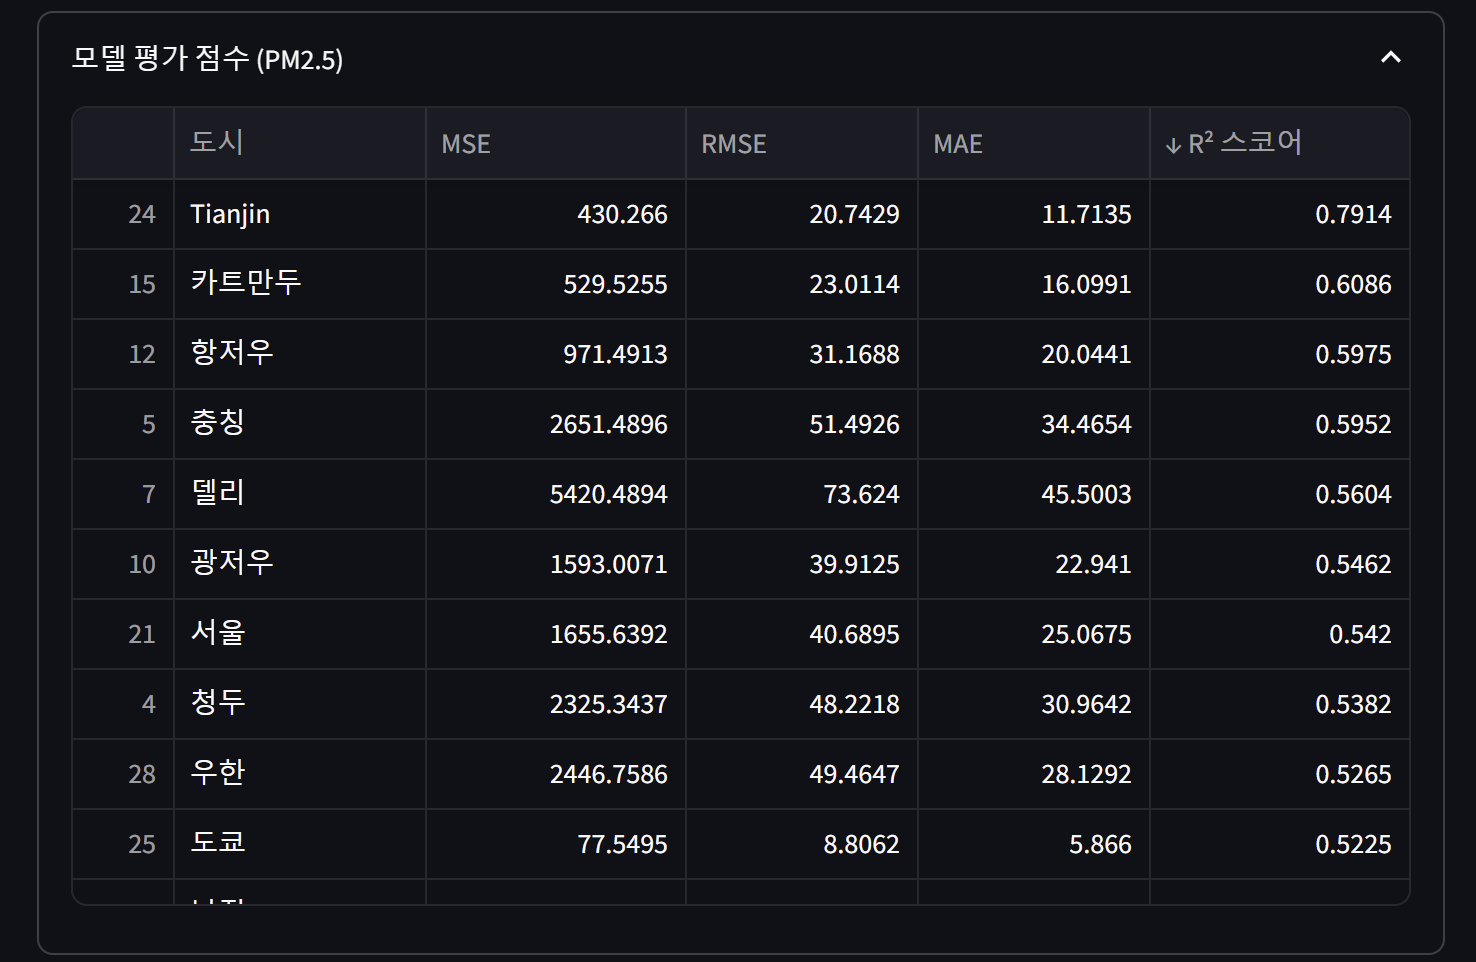
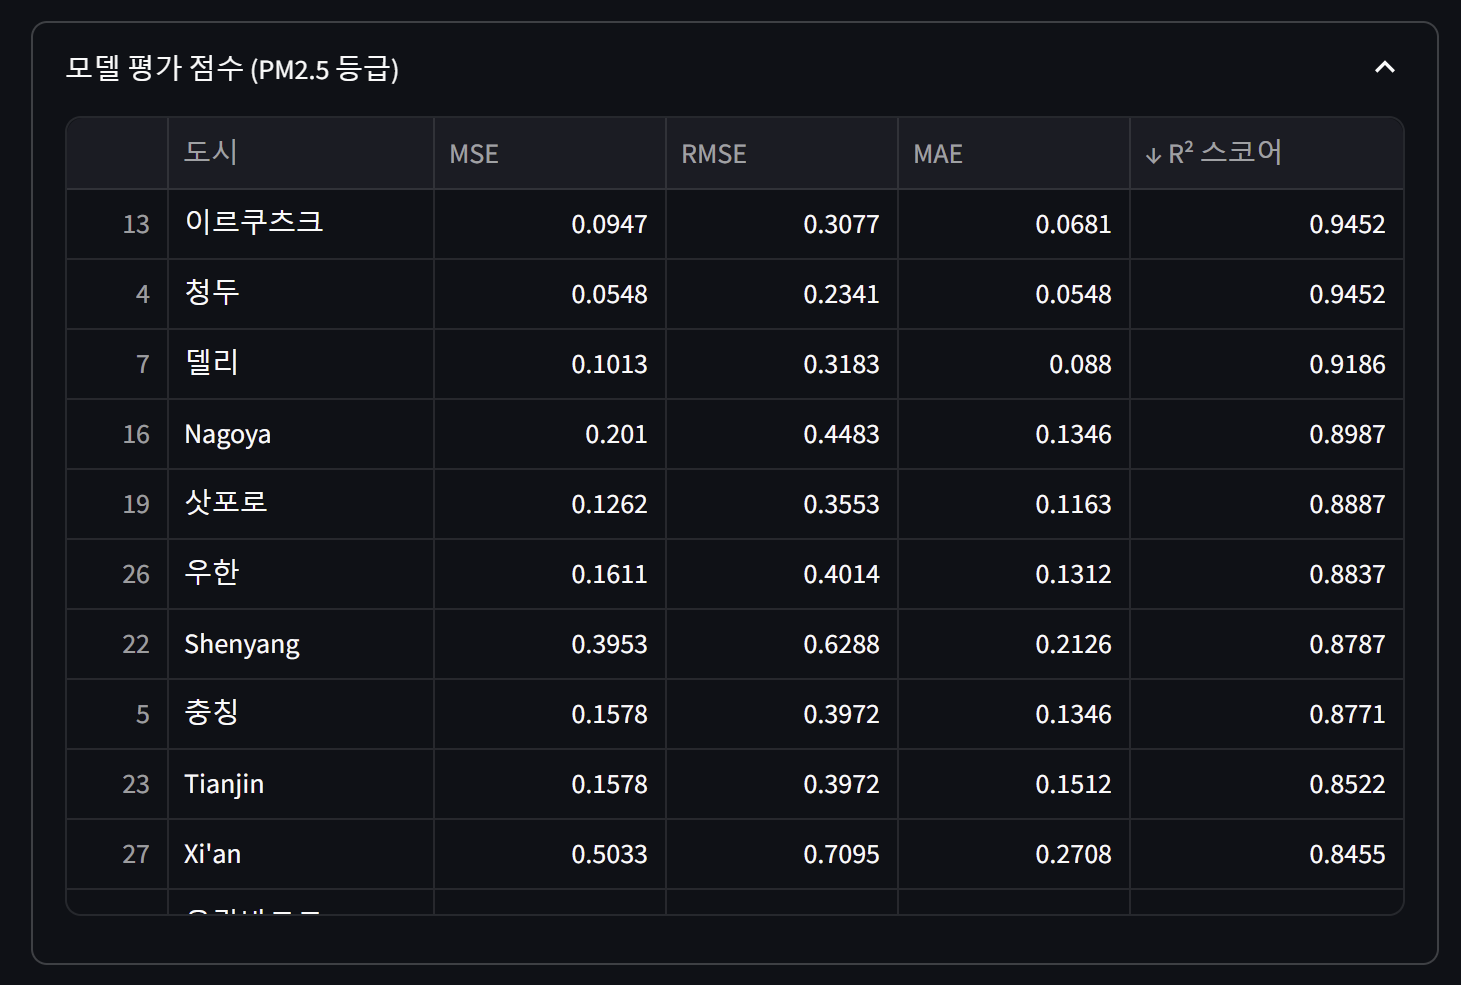
jub

diff --git a/readme.md b/readme.md
@@ -133,9 +133,7 @@ df = pd.read_csv('./data/pm25_pm10_merged.csv')
 
 # 학습 점수
 ## Gradient Boosting + Label Encode
-![이미지](./img/gradient_boosting_델리방콕분류결과.png)
-![이미지](./img/gradient_boosting_서울도쿄분류결과.png)
->>>>>>> 1c73a99ccee1d793f228f9ffe6850a9103622bfb
+
 ![이미지](./img/gradient_boosting_성능평가.png)
 
 # 학습 점수
@@ -160,4 +158,8 @@ df = pd.read_csv('./data/pm25_pm10_merged.csv')
 ## DBSCAN + Linear_regression
 
 # 예측
+
+## Gradient Boosting + Label Encode
+![이미지](./img/gradient_boosting_예측.png)
+![이미지](./img/gradient_boosting_모델평가점수.png)
 
